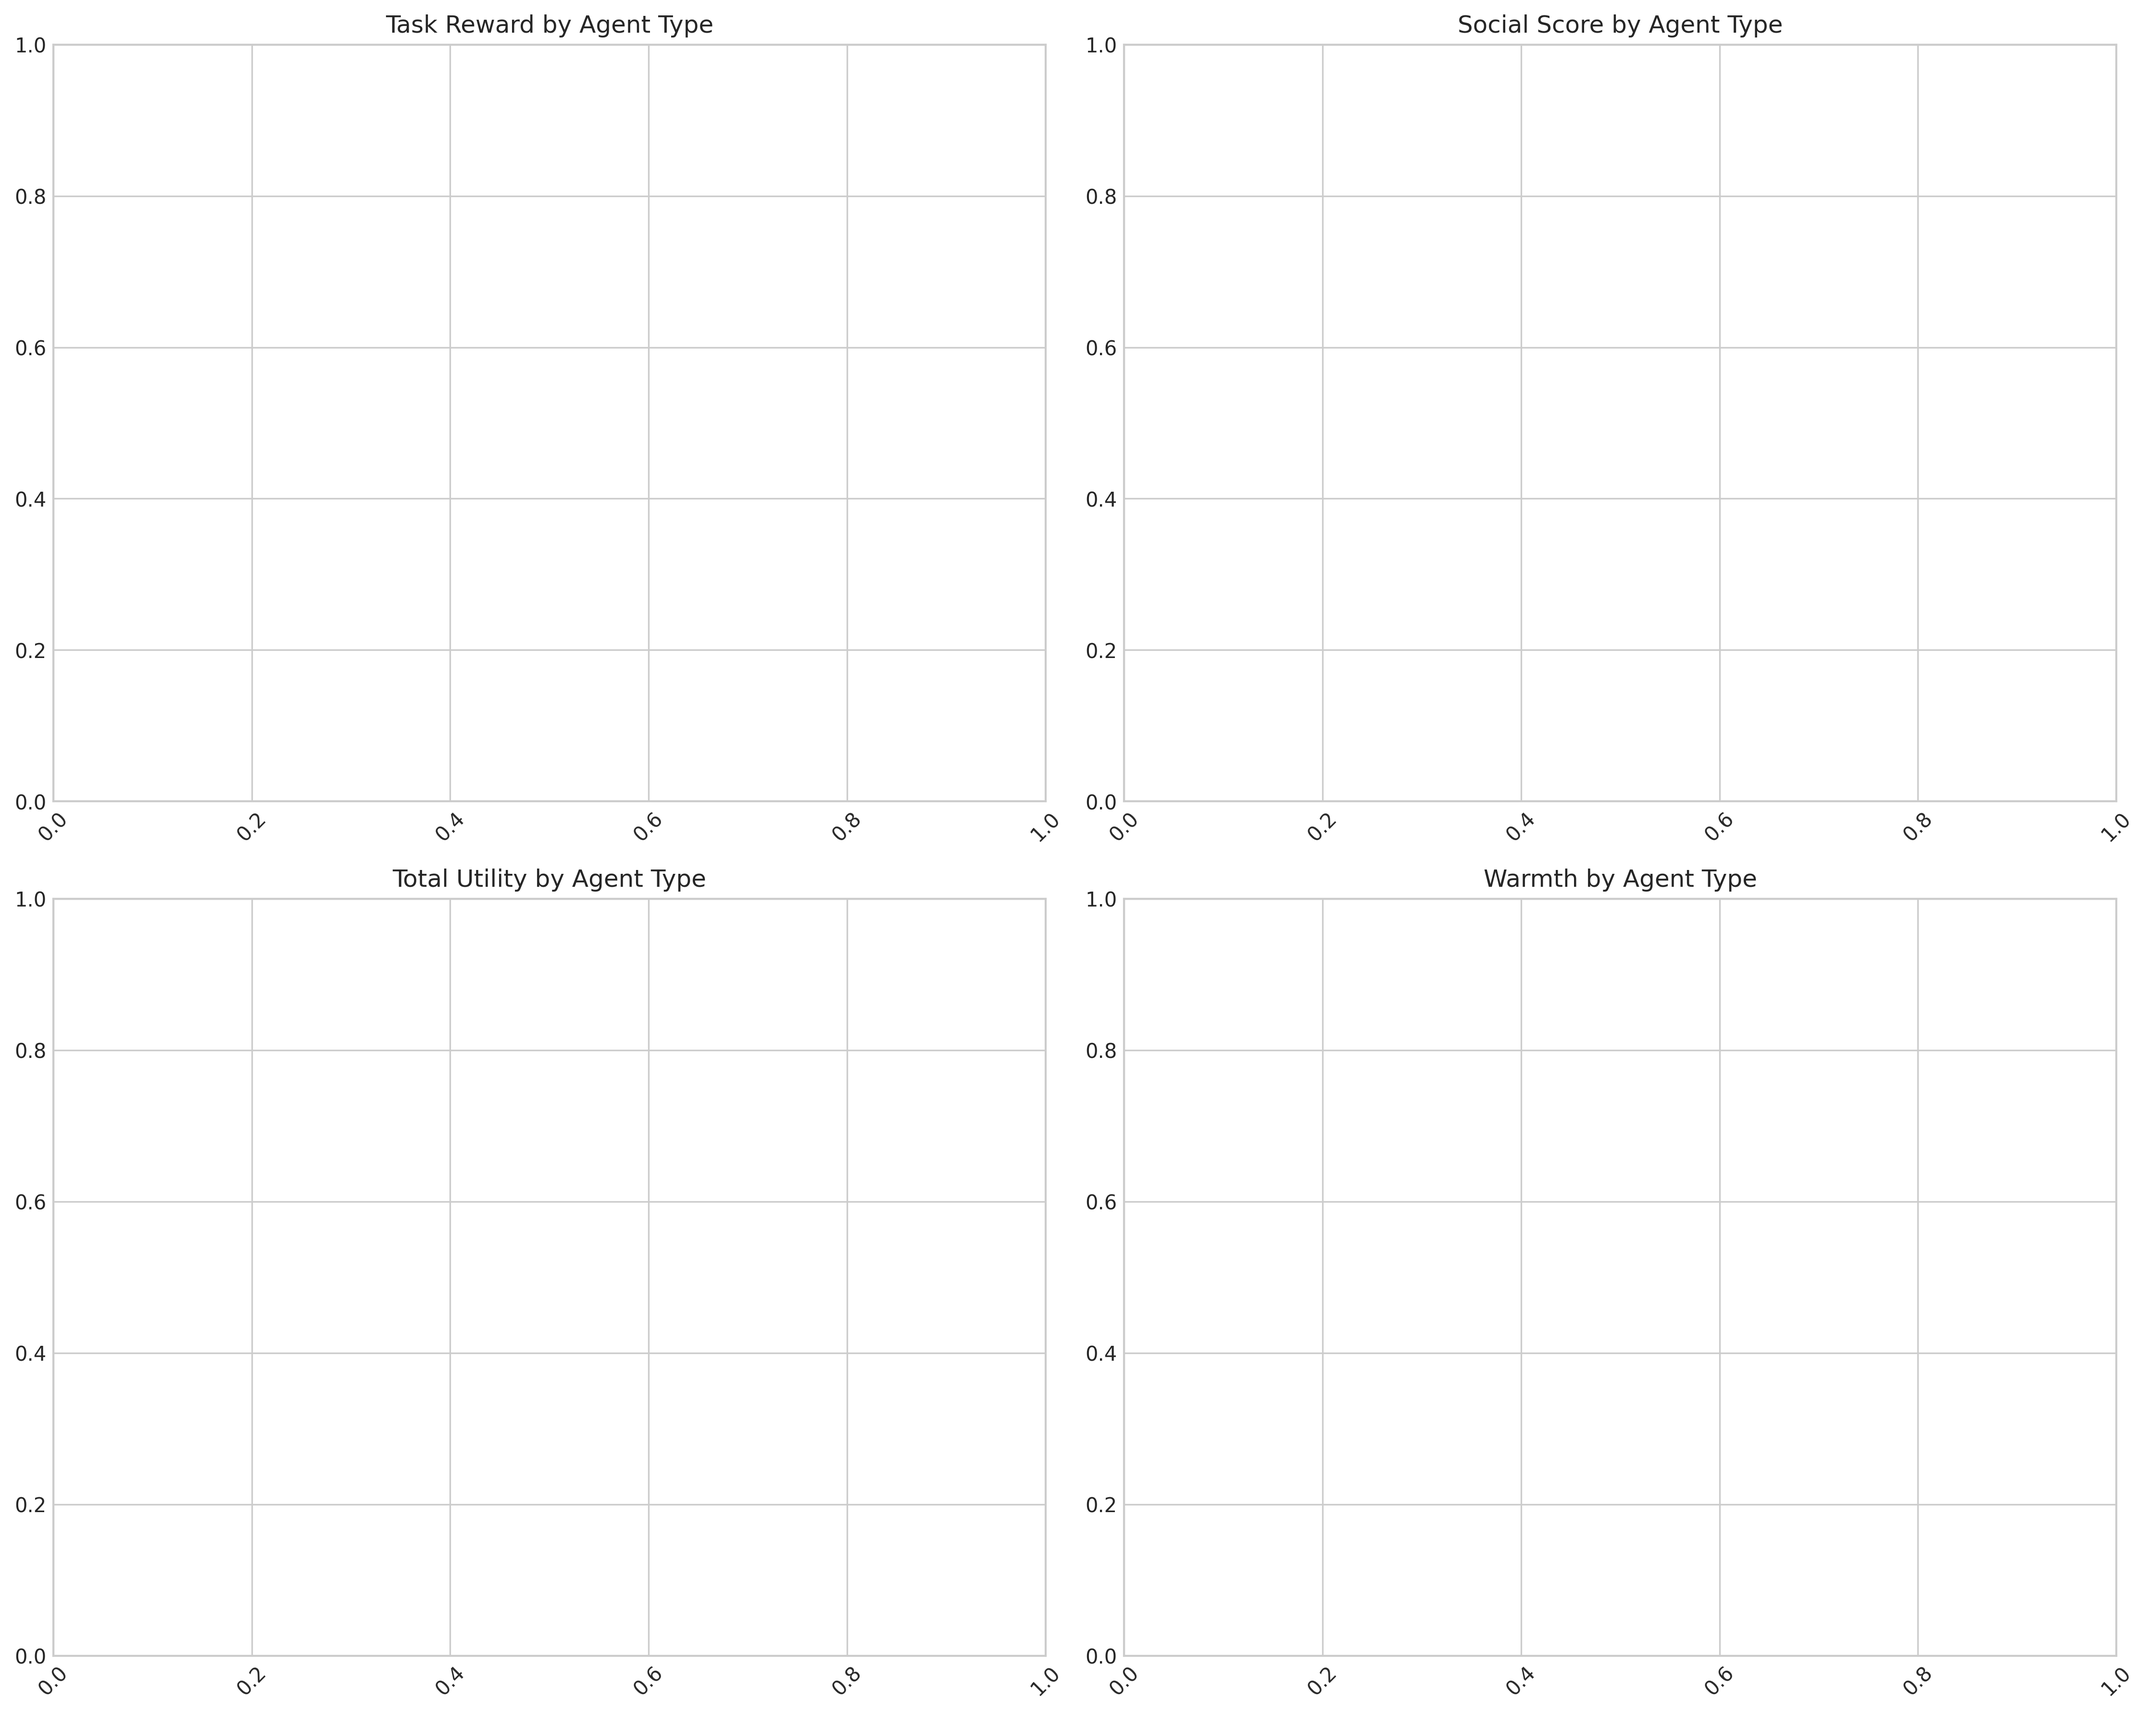
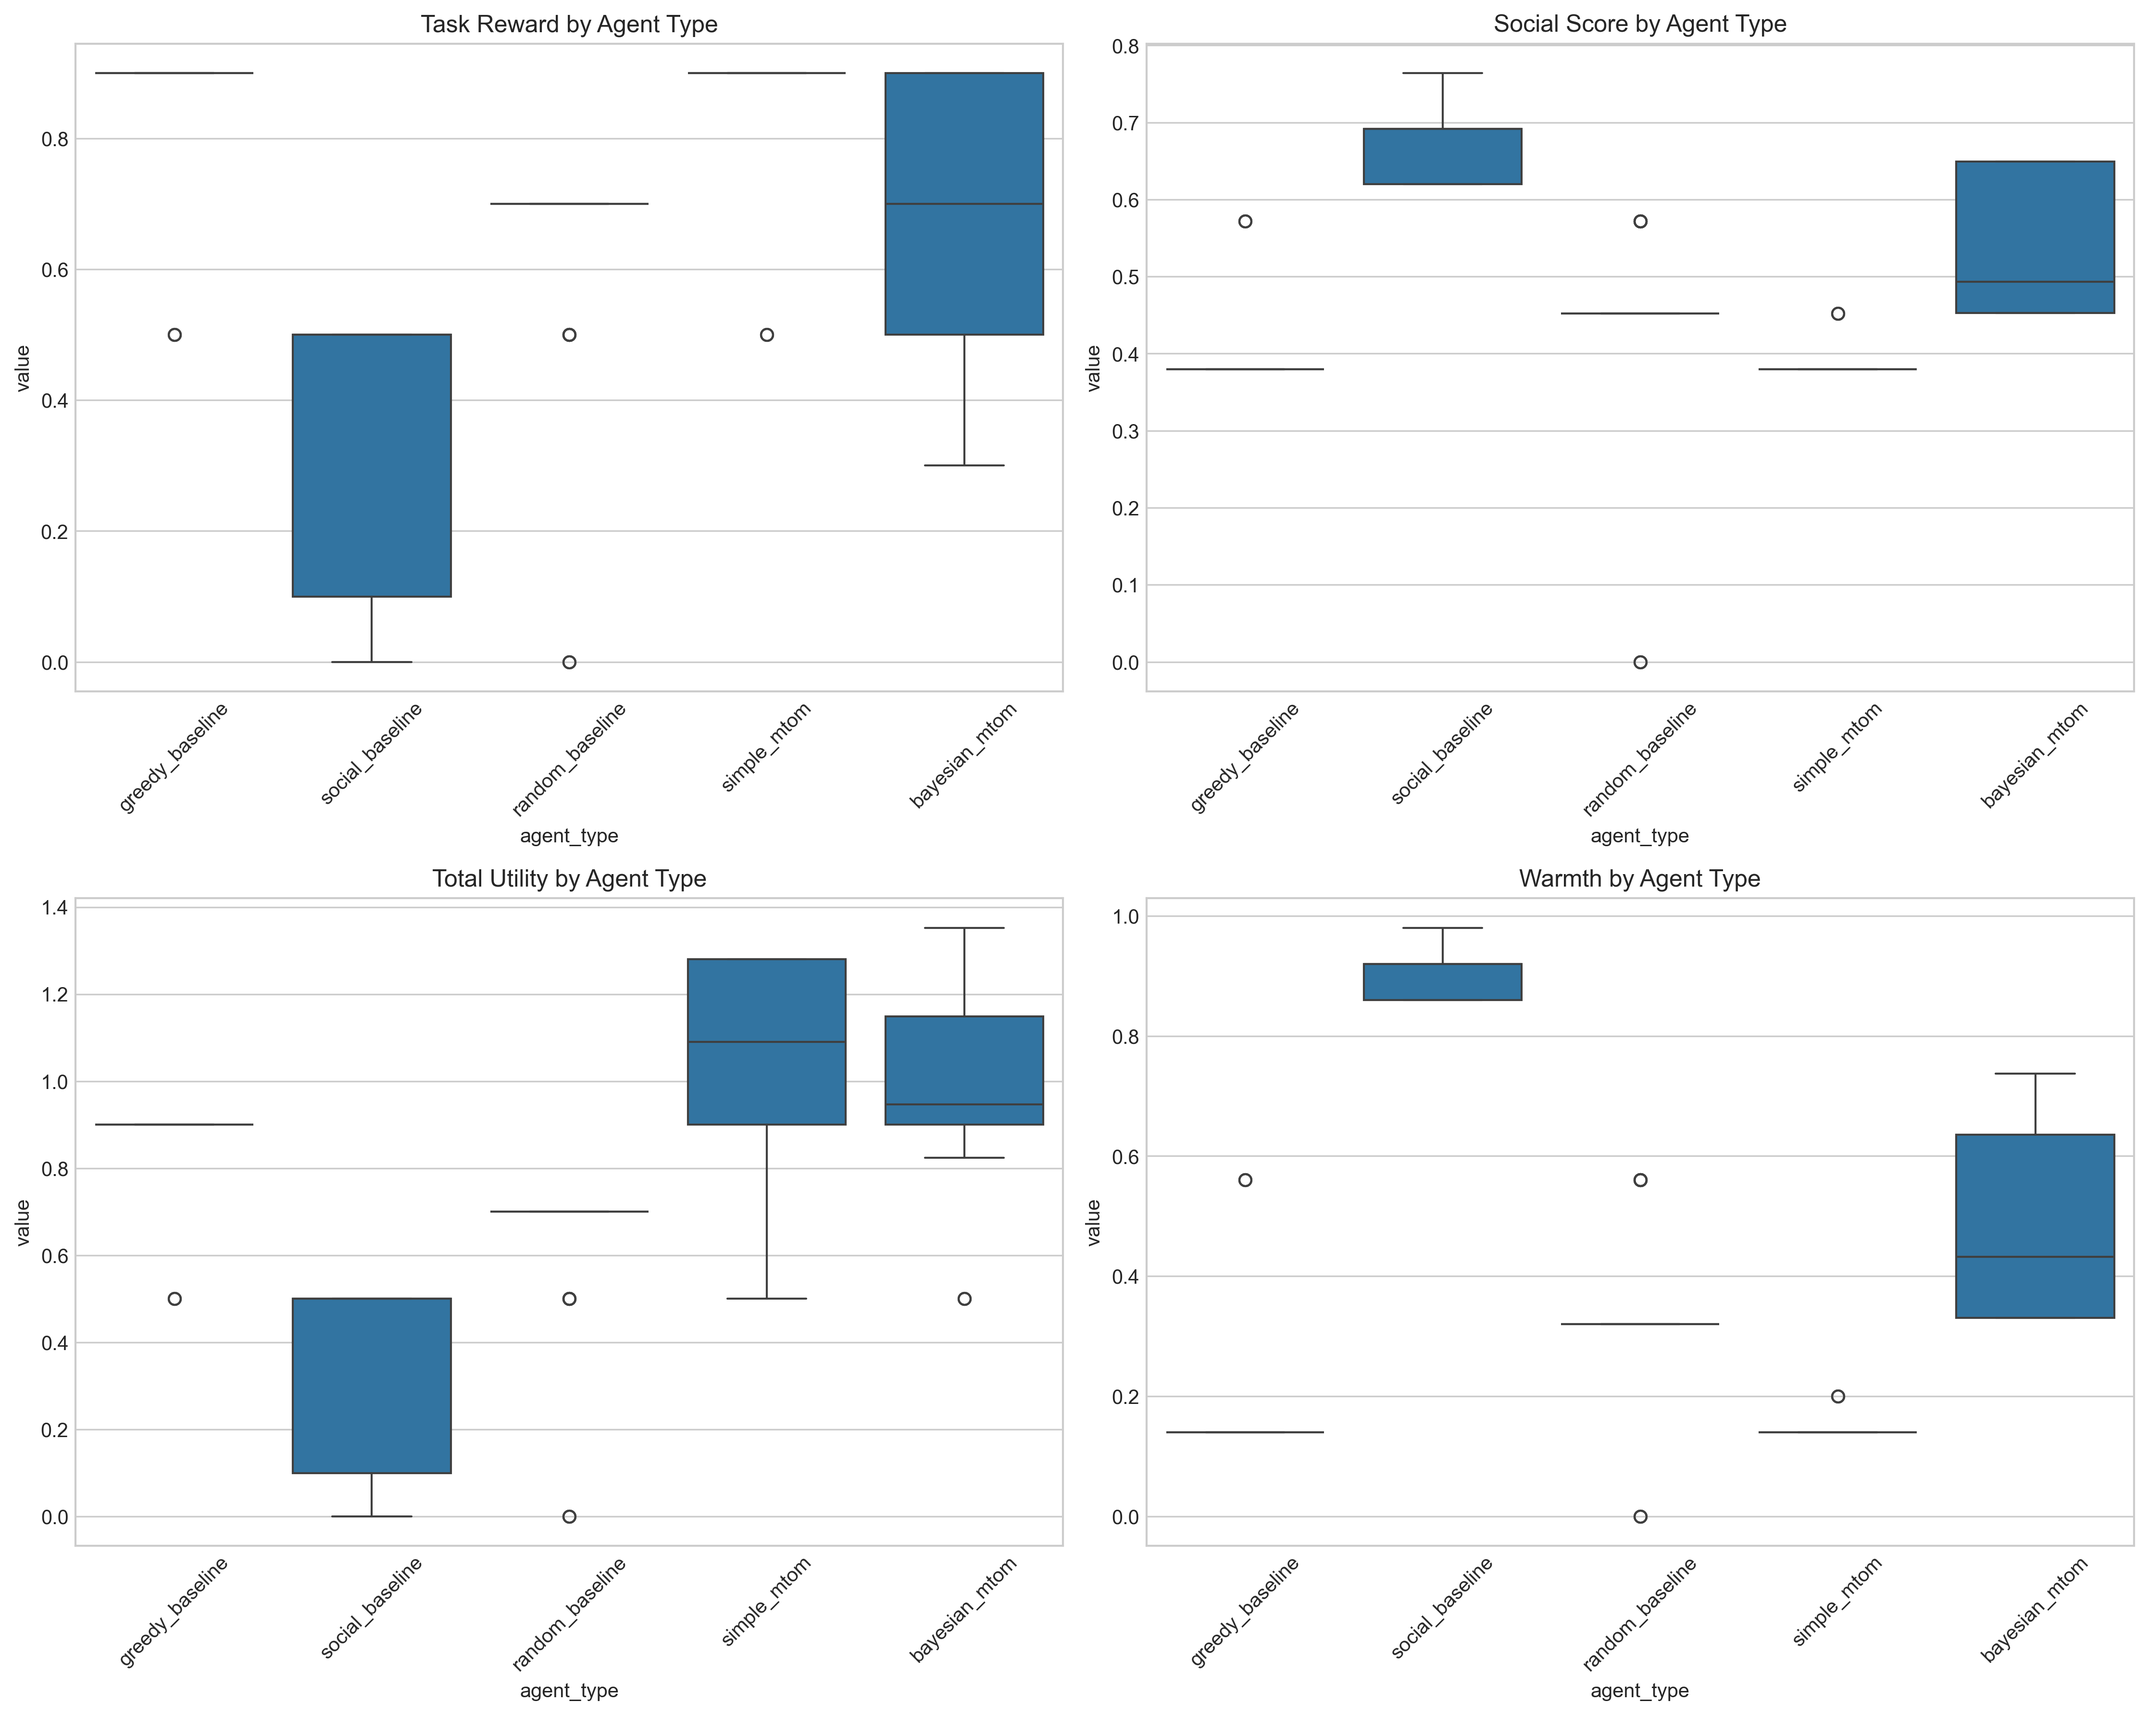
Fix Week 3 plot generation: correct boxplot filtering, auto-generate raw results if missing, and regenerate performance_comparison.png

diff --git a/src/experiments/fix_week3.py b/src/experiments/fix_week3.py
@@ -10,10 +10,14 @@ from typing import Dict, Optional
 import pandas as pd
 
 from src.metrics.pareto import ParetoAnalyzer
+from src.metrics.visualization import ResultVisualizer
 from src.metrics.siq import SIQ, SIQConfig
 from src.metrics.statistical_tests import StatisticalAnalyzer
+from src.utils.config import load_config
+from src.experiments.run_week4 import Week4GeneralizationRunner
 
 DEFAULT_SIQ_CONFIG = Path("experiments/config/week6_siq.yaml")
+DEFAULT_WEEK3_CONFIG = Path("experiments/config/week3_comprehensive.yaml")
 
 def build_siq(config_path: Optional[Path]) -> SIQ:
     if config_path is None:
@@ -46,6 +50,15 @@ def fix_and_rerun_analysis(siq_config: Optional[Path] = None):
             all_results.append(json.loads(line))
     
     print(f"📊 Loaded {len(all_results)} results for re-analysis")
+
+    if not all_results:
+        print("⚠  latest_results.jsonl is empty; generating Week 3 raw results now...")
+        all_results = _generate_week3_raw_results()
+        _write_latest_results_jsonl(all_results)
+        print(f"✅ Generated {len(all_results)} episode results")
+
+    all_results = _normalize_week3_result_schema(all_results)
+
     df = pd.DataFrame(all_results)
     
     # FIXED: Statistical analysis
@@ -68,6 +81,14 @@ def fix_and_rerun_analysis(siq_config: Optional[Path] = None):
         agent_results[agent_type].append(result)
     
     pareto_metrics = pareto_analyzer.calculate_pareto_metrics(agent_results)
+
+    # Regenerate plots
+    print("🎨 Regenerating Week 3 plots...")
+    plots_dir = Path("results/week3/plots")
+    visualizer = ResultVisualizer(plots_dir)
+    visualizer.create_pareto_plot(pareto_metrics, all_results)
+    visualizer.create_performance_comparison(agent_metrics, significance_results)
+    visualizer.create_lambda_sensitivity_plot(all_results)
     
     # Generate fixed report
     print("📋 Generating FIXED analysis report...")
@@ -88,6 +109,85 @@ def fix_and_rerun_analysis(siq_config: Optional[Path] = None):
         save_siq_summary(siq_scores)
     
     print("✅ Week 3 fixes applied successfully!")
+
+
+def _normalize_week3_result_schema(results):
+    """Normalize keys so Week 3 analyzers work across runner variants."""
+    normalized = []
+    for r in results:
+        row = dict(r)
+        # Week4 runner uses `warmth`/`competence`; Week3 analysis expects `*_final`.
+        if "warmth_final" not in row and "warmth" in row:
+            row["warmth_final"] = row["warmth"]
+        if "competence_final" not in row and "competence" in row:
+            row["competence_final"] = row["competence"]
+
+        # Ensure required numeric fields exist (avoid KeyError downstream)
+        for k in ("task_reward", "social_score", "total_utility"):
+            if k in row and row[k] is None:
+                row[k] = 0.0
+
+        normalized.append(row)
+    return normalized
+
+
+def _write_latest_results_jsonl(results) -> None:
+    raw_dir = Path("results/week3/raw")
+    raw_dir.mkdir(parents=True, exist_ok=True)
+    out_path = raw_dir / "latest_results.jsonl"
+    with open(out_path, "w") as f:
+        for row in results:
+            f.write(json.dumps(row) + "\n")
+
+
+def _generate_week3_raw_results():
+    """Generate a small but sufficient Week 3 dataset to enable plotting."""
+    # Load the Week 3 config if present, but run a smaller sweep for speed.
+    if DEFAULT_WEEK3_CONFIG.exists():
+        base_cfg = load_config(str(DEFAULT_WEEK3_CONFIG))
+    else:
+        base_cfg = {
+            "experiment": {"num_seeds": 3, "runs_per_config": 5},
+            "environment": {"type": "negotiation_v1", "total_resources": 10, "max_turns": 3},
+            "sweep_parameters": {
+                "agent_types": ["greedy_baseline", "social_baseline", "random_baseline", "simple_mtom", "bayesian_mtom"],
+                "lambda_values": [0.0, 0.5, 1.0],
+            },
+            "social_config": {"score_type": "linear", "warmth_weight": 0.6, "competence_weight": 0.4},
+            "output": {"directory": "results/week3"},
+        }
+
+    agent_types = base_cfg.get("sweep_parameters", {}).get("agent_types", [])
+    lambda_values = base_cfg.get("sweep_parameters", {}).get("lambda_values", [0.0, 0.5, 1.0])
+
+    # Keep a small set of lambdas for speed, but include both 0 and >0.
+    chosen_lambdas = []
+    for v in lambda_values:
+        if v in (0.0, 0.5, 1.0):
+            chosen_lambdas.append(float(v))
+    if not chosen_lambdas:
+        chosen_lambdas = [0.0, 0.5, 1.0]
+
+    exp_cfg = {
+        "experiment": {
+            "num_seeds": int(min(3, base_cfg.get("experiment", {}).get("num_seeds", 3))),
+            "runs_per_config": int(min(5, base_cfg.get("experiment", {}).get("runs_per_config", 5))),
+        },
+        "environment": base_cfg.get("environment", {"total_resources": 10, "max_turns": 3}),
+        "sweep_parameters": {
+            "agent_types": agent_types,
+            "lambda_values": chosen_lambdas,
+            "observer_types": ["simple"],
+            "env_variants": [{"name": "base"}],
+            "opponent_types": ["fair"],
+        },
+        "social_config": base_cfg.get("social_config", {"score_type": "linear", "warmth_weight": 0.6, "competence_weight": 0.4}),
+        "output": {"directory": "results/week3"},
+    }
+
+    runner = Week4GeneralizationRunner(exp_cfg)
+    results = runner.run()
+    return results
 
 
 def save_siq_summary(siq_scores: Dict[str, Dict[str, float]]):

diff --git a/src/metrics/visualization.py b/src/metrics/visualization.py
@@ -53,28 +53,44 @@ class ResultVisualizer:
         """Create performance comparison box plots"""
         fig, axes = plt.subplots(2, 2, figsize=(15, 12))
         axes = axes.flatten()
-        
-        metrics_to_plot = ['task_rewards', 'social_scores', 'total_utilities', 'warmth_values']
-        titles = ['Task Reward', 'Social Score', 'Total Utility', 'Warmth']
-        
+
+        metric_specs = [
+            ('task_rewards', 'Task Reward'),
+            ('social_scores', 'Social Score'),
+            ('total_utilities', 'Total Utility'),
+            ('warmth_values', 'Warmth'),
+        ]
+
         # Prepare data for plotting
-        plot_data = []
+        plot_rows = []
         for agent_type, metrics in agent_metrics.items():
-            for metric_name in metrics_to_plot:
-                for value in metrics[metric_name]:
-                    plot_data.append({
+            for metric_key, metric_title in metric_specs:
+                values = metrics.get(metric_key)
+                if values is None:
+                    continue
+                for value in values:
+                    plot_rows.append({
                         'agent_type': agent_type,
-                        'metric': metric_name.replace('_', ' ').title(),
-                        'value': value
+                        'metric_key': metric_key,
+                        'metric_title': metric_title,
+                        'value': value,
                     })
-        
-        df = pd.DataFrame(plot_data)
-        
+
+        df = pd.DataFrame(plot_rows)
+
         # Create box plots
-        for i, (metric, title) in enumerate(zip(metrics_to_plot, titles)):
-            metric_data = df[df['metric'] == title.replace(' ', '')]
+        for i, (metric_key, metric_title) in enumerate(metric_specs):
+            metric_data = df[df['metric_key'] == metric_key] if not df.empty else df
+            if metric_data.empty:
+                axes[i].set_title(f'{metric_title} by Agent Type')
+                axes[i].set_xlabel('agent_type')
+                axes[i].set_ylabel('value')
+                axes[i].text(0.5, 0.5, 'No data', ha='center', va='center', transform=axes[i].transAxes)
+                axes[i].set_xticks([])
+                continue
+
             sns.boxplot(data=metric_data, x='agent_type', y='value', ax=axes[i])
-            axes[i].set_title(f'{title} by Agent Type')
+            axes[i].set_title(f'{metric_title} by Agent Type')
             axes[i].tick_params(axis='x', rotation=45)
         
         plt.tight_layout()
